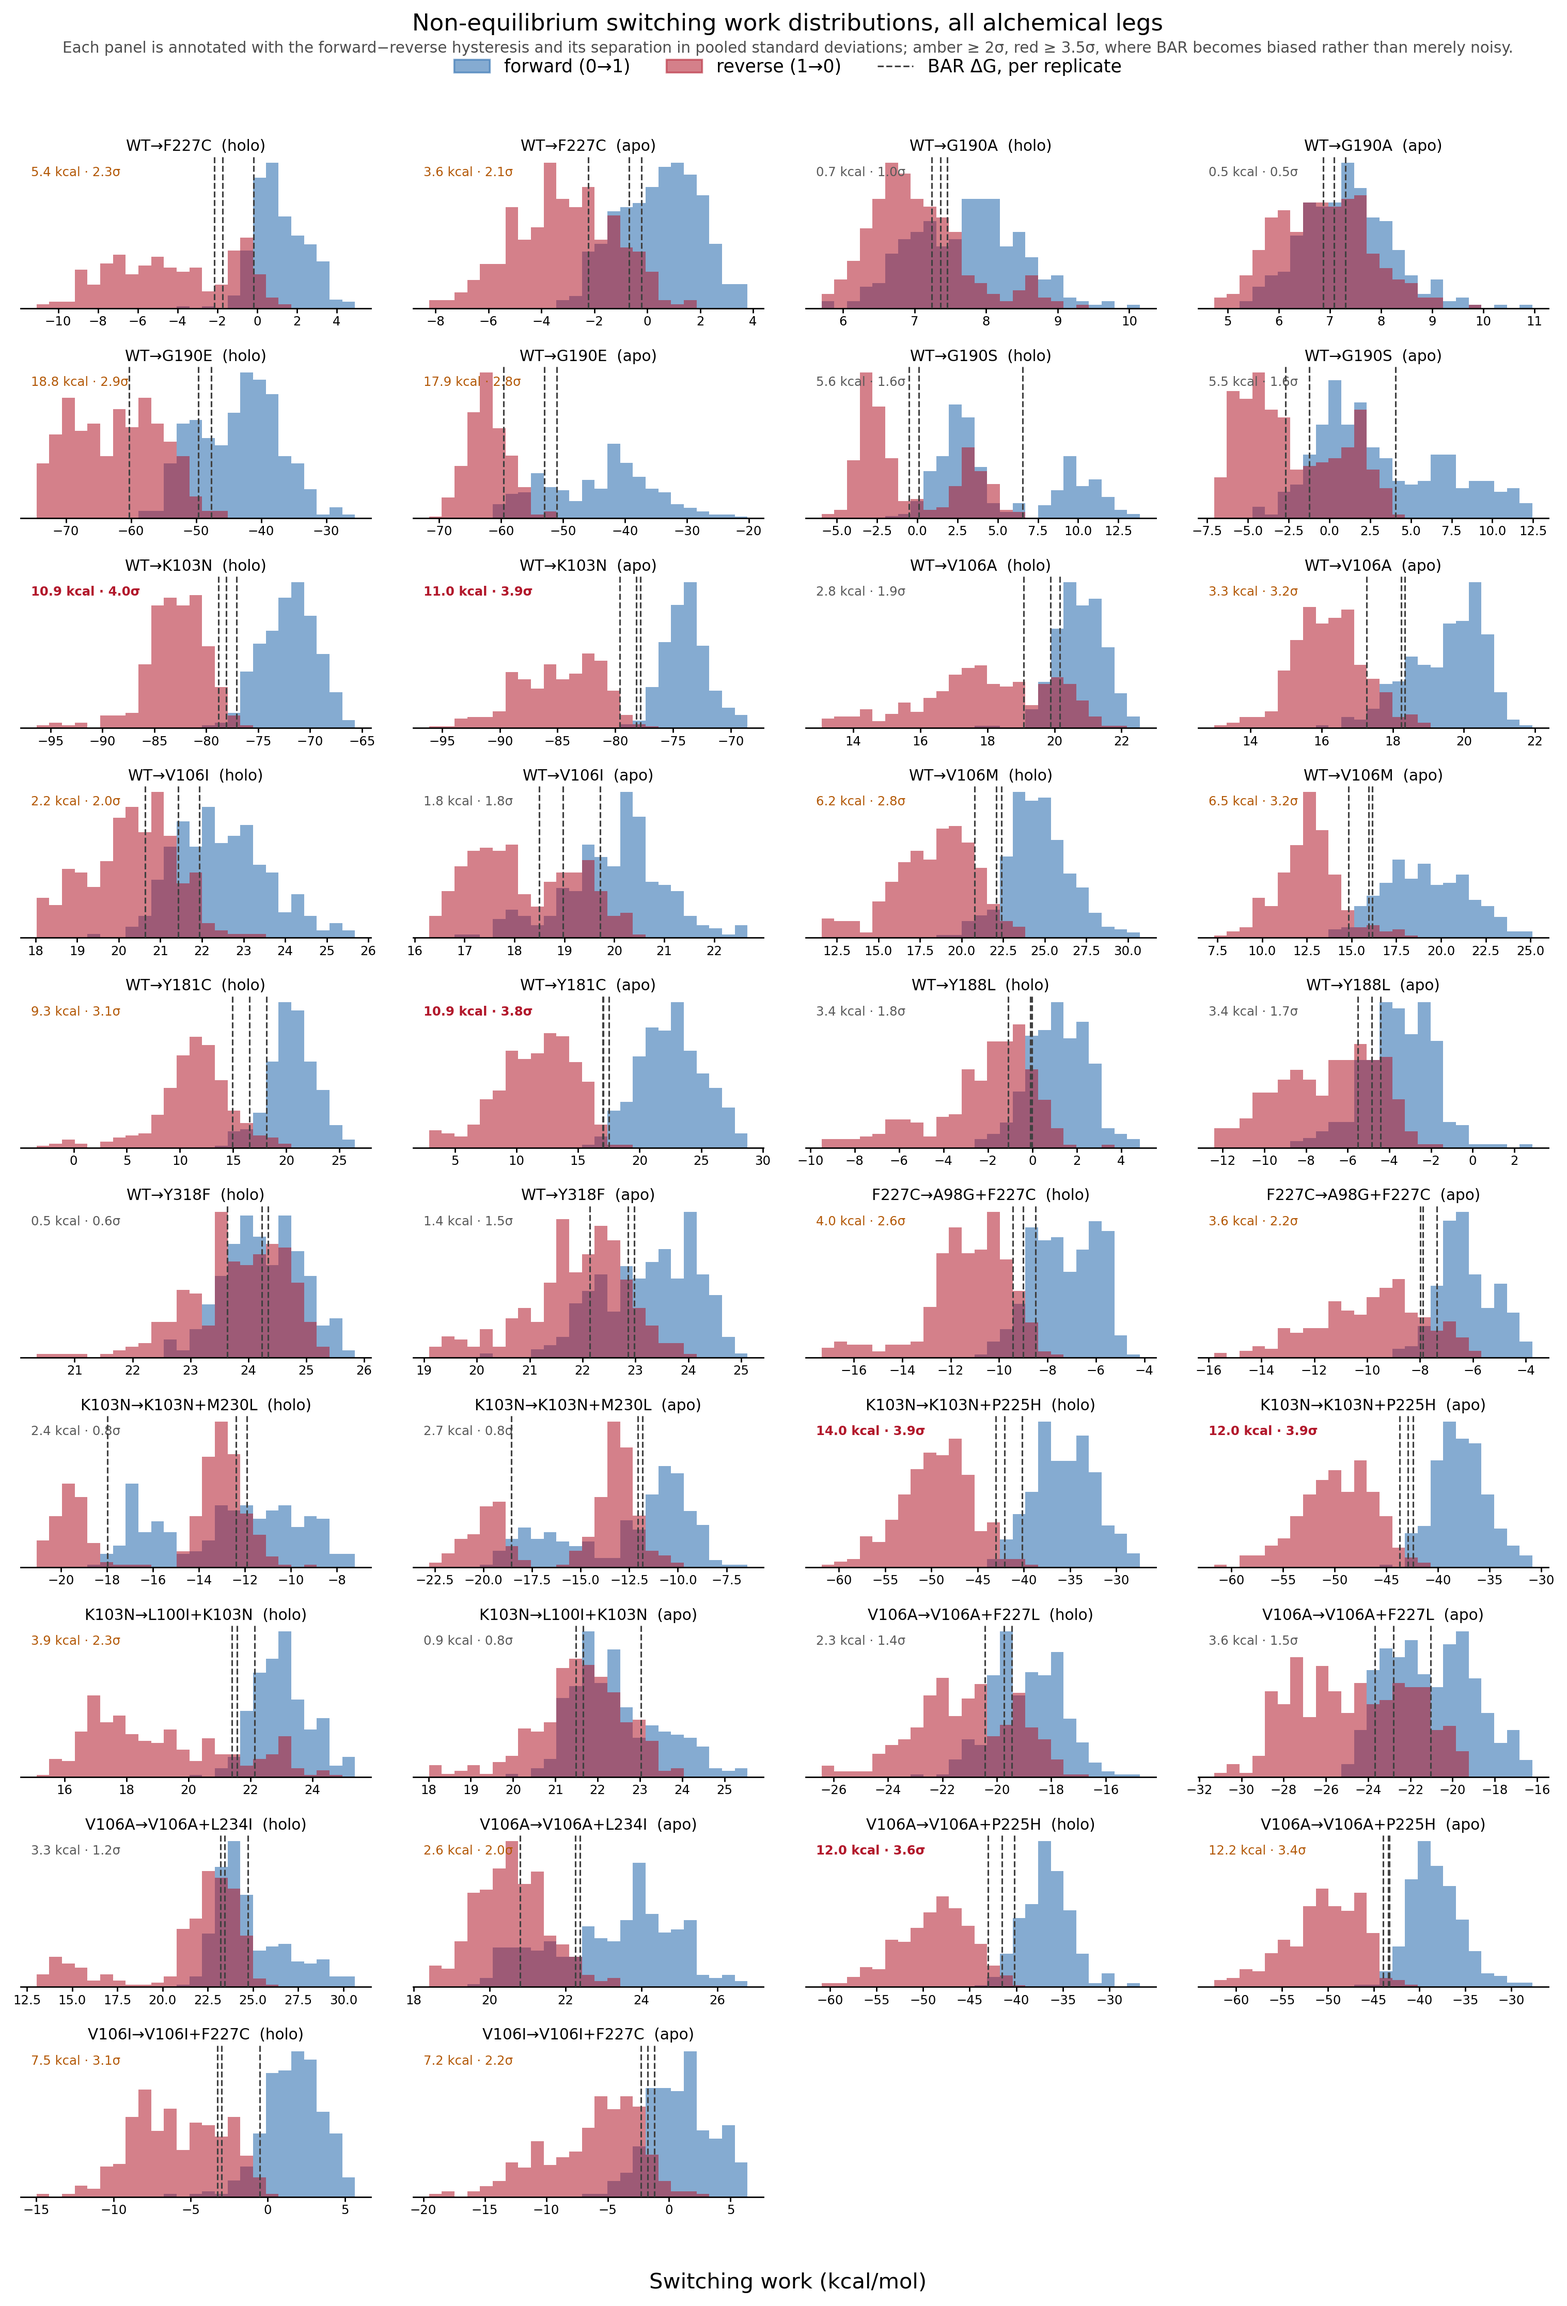
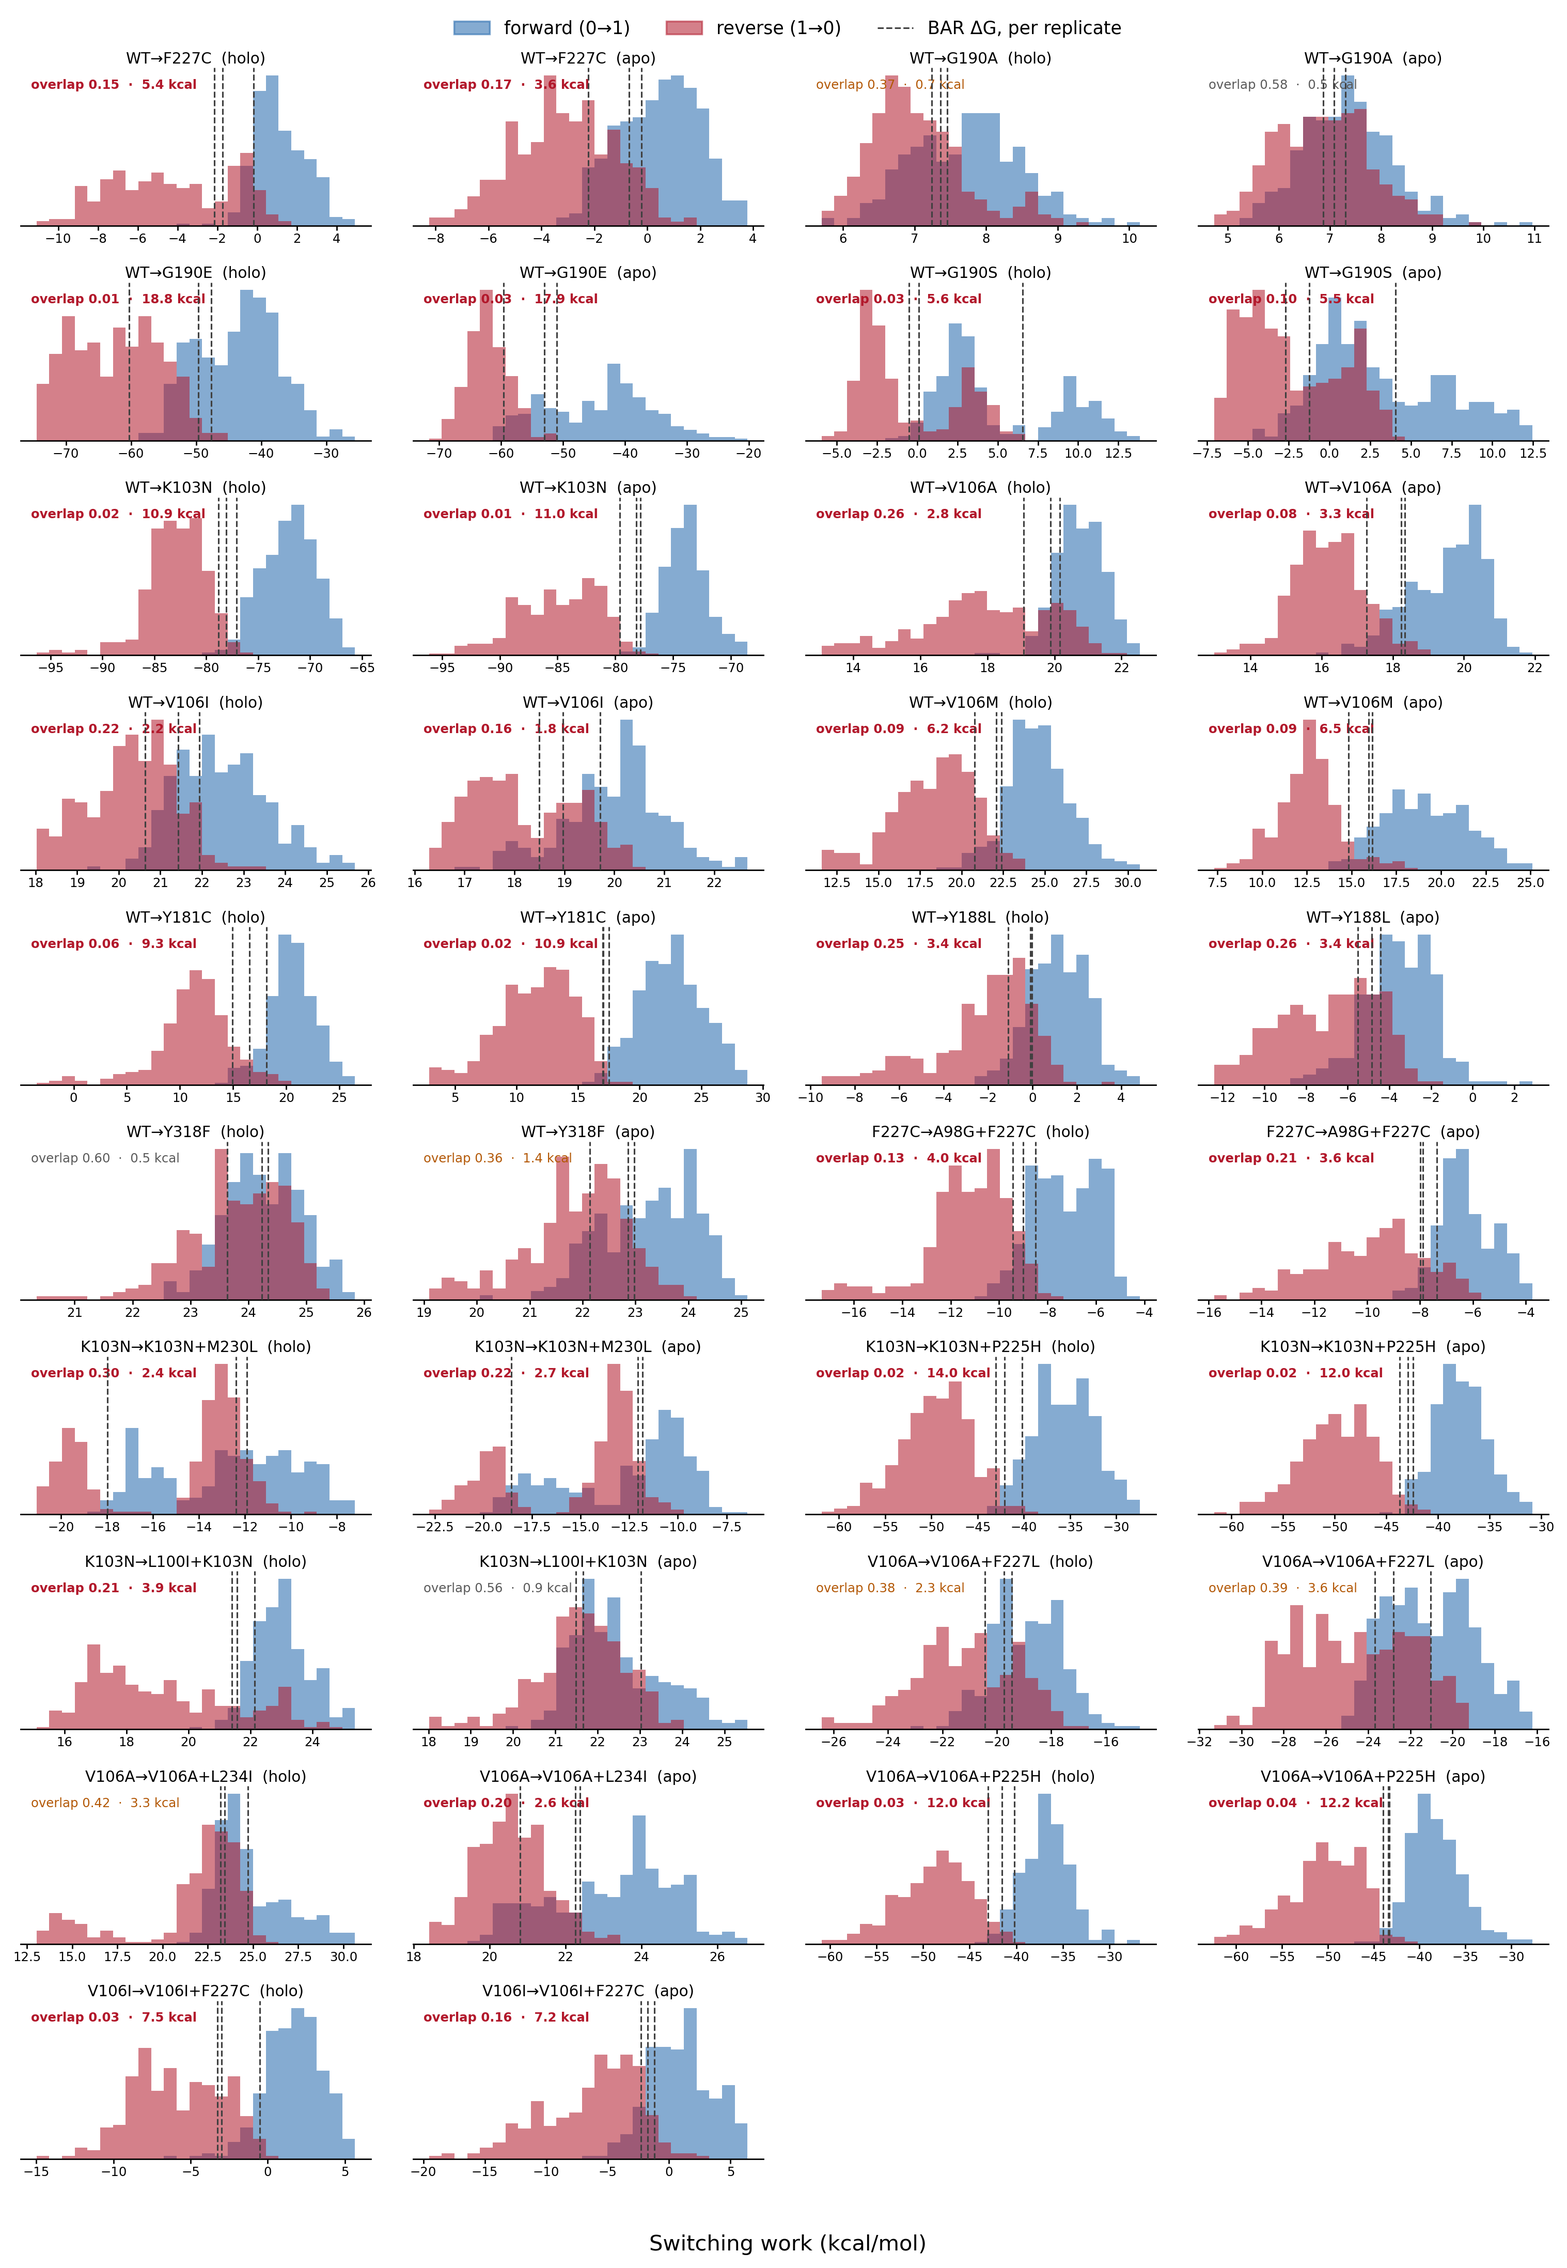
fep_pmx/work distributions: annotate overlap instead of sigma; drop the titles
Sigma separation was hard to read off a histogram. Each panel now reports the
forward/reverse overlap coefficient, imported from qc_neq rather than
reimplemented so it matches panel_qc.csv exactly: 0 is disjoint, 1 identical,
and the pipeline's own OVERLAP_MIN sets the red flag. Hysteresis in kcal/mol is
kept alongside it.

Also removes the figure title and the grey explanatory line; the legend and the
per-panel annotations carry the meaning, and the caption can do the rest.

diff --git a/src/analysis/cli/plot_fep_work_distributions.py b/src/analysis/cli/plot_fep_work_distributions.py
@@ -8,9 +8,14 @@ justifies BAR: well-overlapped, similarly-shaped distributions mean the estimate
 is limited by statistics, whereas widely separated ones mean dissipation is
 large and BAR is biased as well as noisy.
 
+Each panel is annotated with the forward/reverse overlap coefficient -- the same
+one ``qc_neq`` computes, in [0, 1], where 0 is disjoint and 1 identical -- and
+the hysteresis between the two means. Panels below the pipeline's OVERLAP_MIN
+are marked red.
+
 pmx writes the reverse work already sign-flipped, so both directions share an
-axis and dG falls between the two means; their separation is the hysteresis.
-Work values are stored in kJ/mol and converted here to kcal/mol.
+axis and dG falls between the two means. Work is stored in kJ/mol and converted
+here to kcal/mol.
 """
 
 from __future__ import annotations
@@ -20,6 +25,8 @@ import json
 from pathlib import Path
 
 import numpy as np
+
+from scripts.fep_pmx.qc_neq import OVERLAP_MIN, overlap_coefficient
 
 KJ_PER_KCAL = 4.184
 FWD_COLOUR = "#2166AC"
@@ -52,9 +59,12 @@ def collect(legs_dir: Path) -> dict[tuple[str, str], dict]:
             continue
         payload = json.loads(meta.read_text())
         key = (str(payload["leg_id"]), str(payload["phase"]))
-        entry = out.setdefault(key, {"fwd": [], "rev": [], "bar": [], "reps": []})
-        entry["fwd"].append(np.loadtxt(fwd, usecols=1) / KJ_PER_KCAL)
-        entry["rev"].append(np.loadtxt(rev, usecols=1) / KJ_PER_KCAL)
+        entry = out.setdefault(key, {"fwd": [], "rev": [], "bar": [], "reps": [], "per_rep": []})
+        wf = np.loadtxt(fwd, usecols=1) / KJ_PER_KCAL
+        wr = np.loadtxt(rev, usecols=1) / KJ_PER_KCAL
+        entry["fwd"].append(wf)
+        entry["rev"].append(wr)
+        entry["per_rep"].append((wf, wr))
         if payload.get("bar_dg") is not None:
             entry["bar"].append(float(payload["bar_dg"]))
             entry["reps"].append(int(payload["replicate"]))
@@ -105,17 +115,16 @@ def main() -> int:
         for dg in e["bar"]:
             ax.axvline(dg, color="0.25", lw=0.9, ls="--", zorder=4)
         hyst = float(e["fwd"].mean() - e["rev"].mean())
-        # Standardised separation of the two work distributions. STATUS.md treats
-        # ~4-5 sigma as the regime where BAR is biased rather than merely noisy,
-        # so the annotation is coloured on that scale.
-        pooled = float(np.sqrt((e["fwd"].var(ddof=1) + e["rev"].var(ddof=1)) / 2.0))
-        sep = hyst / pooled if pooled > 0 else float("nan")
-        colour = "0.35" if sep < 2 else ("#B35806" if sep < 3.5 else "#B2182B")
+        # Same overlap coefficient qc_neq uses, averaged over replicates as its own
+        # panel figure does, so this agrees with panel_qc.csv. 0 = disjoint,
+        # 1 = identical; the pipeline flags anything below OVERLAP_MIN.
+        ov = float(np.mean([overlap_coefficient(wf, wr) for wf, wr in e["per_rep"]]))
+        colour = "#B2182B" if ov < OVERLAP_MIN else ("#B35806" if ov < 0.5 else "0.35")
         label = leg.replace("wt_to_", "WT→").replace("_to_", "→").replace("_", "+")
         ax.set_title(f"{label}  ({phase})", fontsize=8.5, pad=2.5)
-        ax.text(0.03, 0.93, f"{hyst:.1f} kcal · {sep:.1f}σ", transform=ax.transAxes,
-                fontsize=7, va="top", color=colour,
-                fontweight="bold" if sep >= 3.5 else "normal")
+        ax.text(0.03, 0.93, f"overlap {ov:.2f}  ·  {hyst:.1f} kcal",
+                transform=ax.transAxes, fontsize=7, va="top", color=colour,
+                fontweight="bold" if ov < OVERLAP_MIN else "normal")
         ax.tick_params(labelsize=7, length=2.5, pad=1.5)
         ax.set_yticks([])
         for side in ("top", "right", "left"):
@@ -131,15 +140,8 @@ def main() -> int:
     fig.legend(handles, ["forward (0→1)", "reverse (1→0)", "BAR ΔG, per replicate"],
                loc="upper center", ncol=3, frameon=False, fontsize=10,
                bbox_to_anchor=(0.5, 1.0))
-    fig.text(0.5, 0.9955,
-             "Each panel is annotated with the forward−reverse hysteresis and its separation in "
-             "pooled standard deviations; amber ≥ 2σ, red ≥ 3.5σ, where BAR becomes biased "
-             "rather than merely noisy.",
-             ha="center", fontsize=8.5, color="0.3")
     fig.supxlabel("Switching work (kcal/mol)", fontsize=12, y=0.004)
-    fig.suptitle("Non-equilibrium switching work distributions, all alchemical legs",
-                 fontsize=13, y=1.013)
-    fig.tight_layout(rect=(0, 0.012, 1, 0.985))
+    fig.tight_layout(rect=(0, 0.012, 1, 0.988))
     args.output.parent.mkdir(parents=True, exist_ok=True)
     fig.savefig(args.output, dpi=args.dpi, bbox_inches="tight")
     print(f"Wrote {args.output}  ({len(panels)} panels, "
